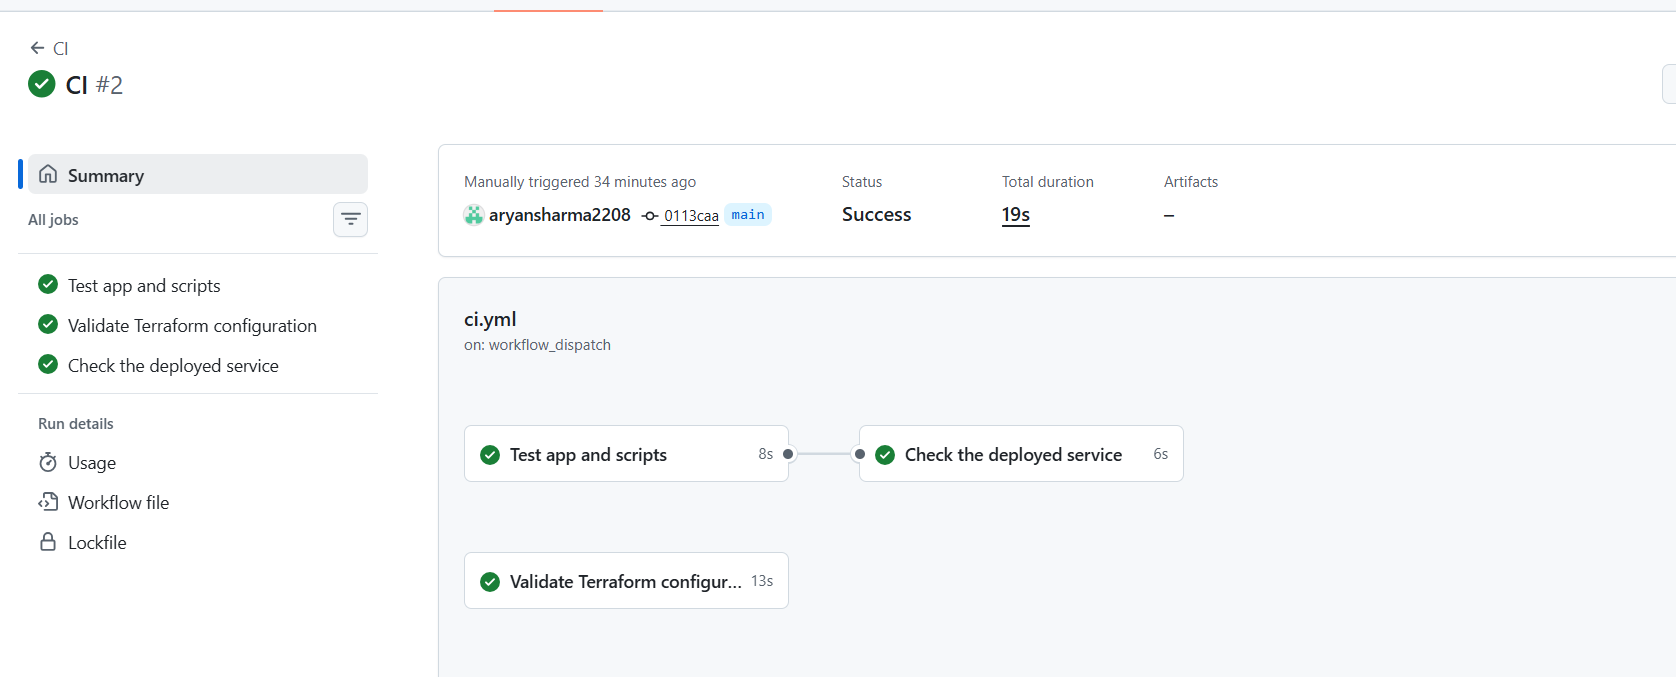
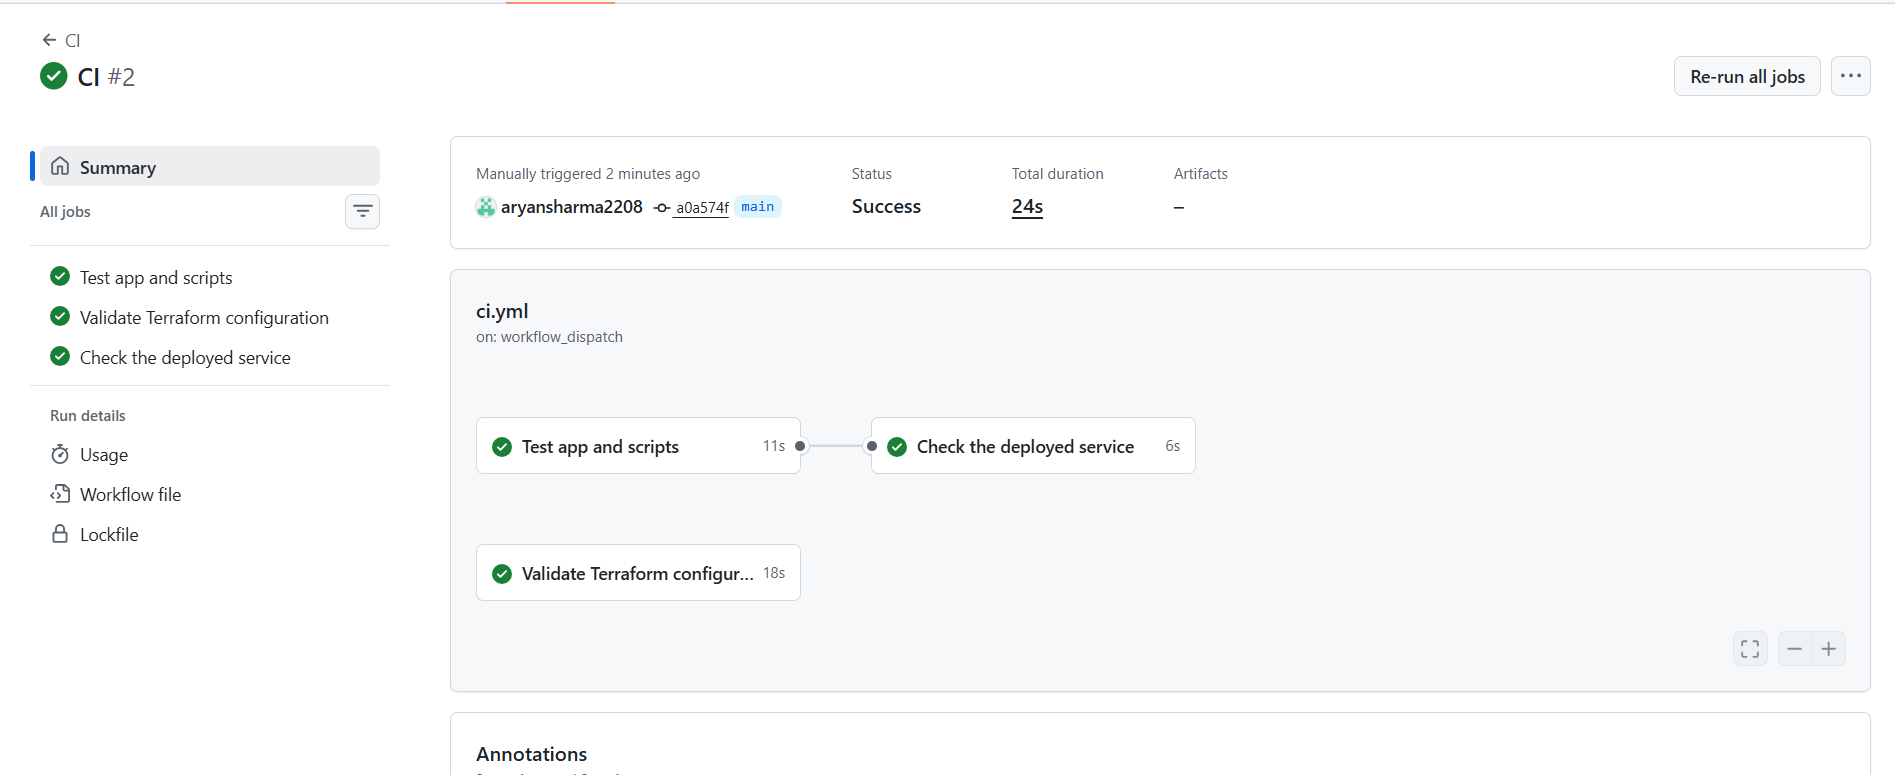
Updating docs

diff --git a/docs/ci-output.md b/docs/ci-output.md
@@ -2,7 +2,7 @@
 
 Workflow: `.github/workflows/ci.yml`. The latest runs are on the repository's **Actions** tab.
 
-Run link: <https://github.com/aryansharma2208/msd_assignment/actions/runs/40948219096>
+Run link: <https://github.com/aryansharma2208/msd_repo/actions/runs/41043679044>
 
 ## Run summary
 
